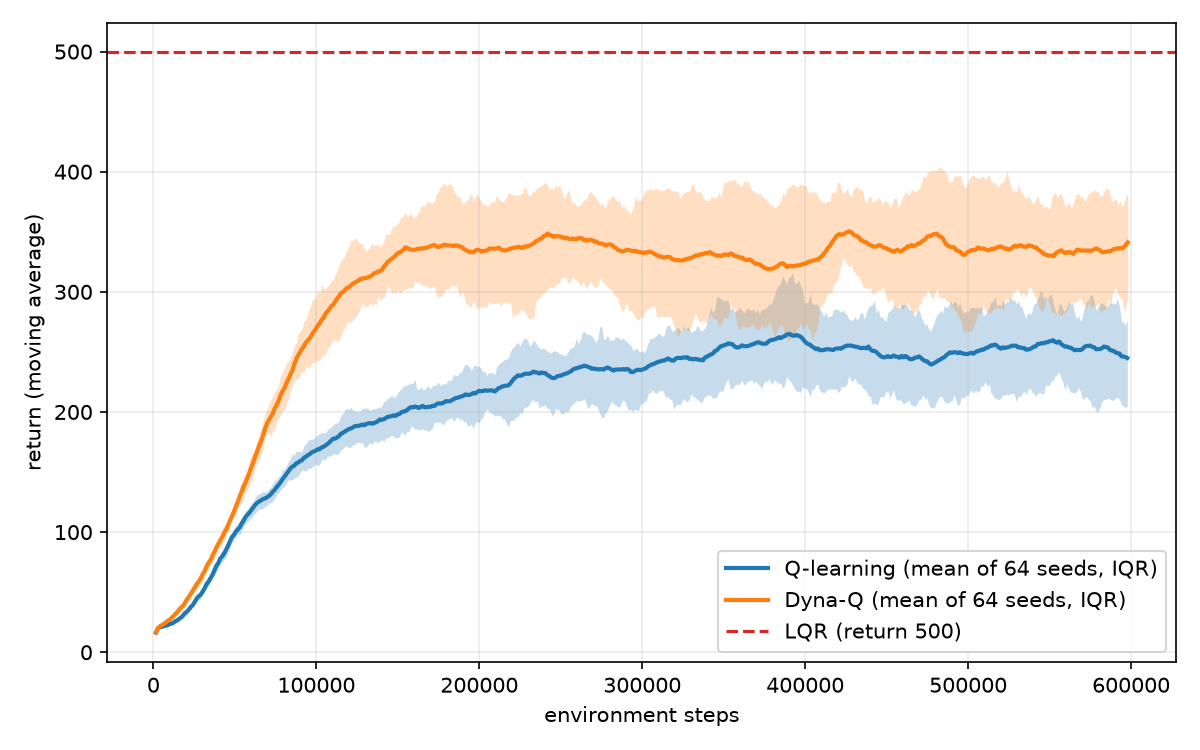
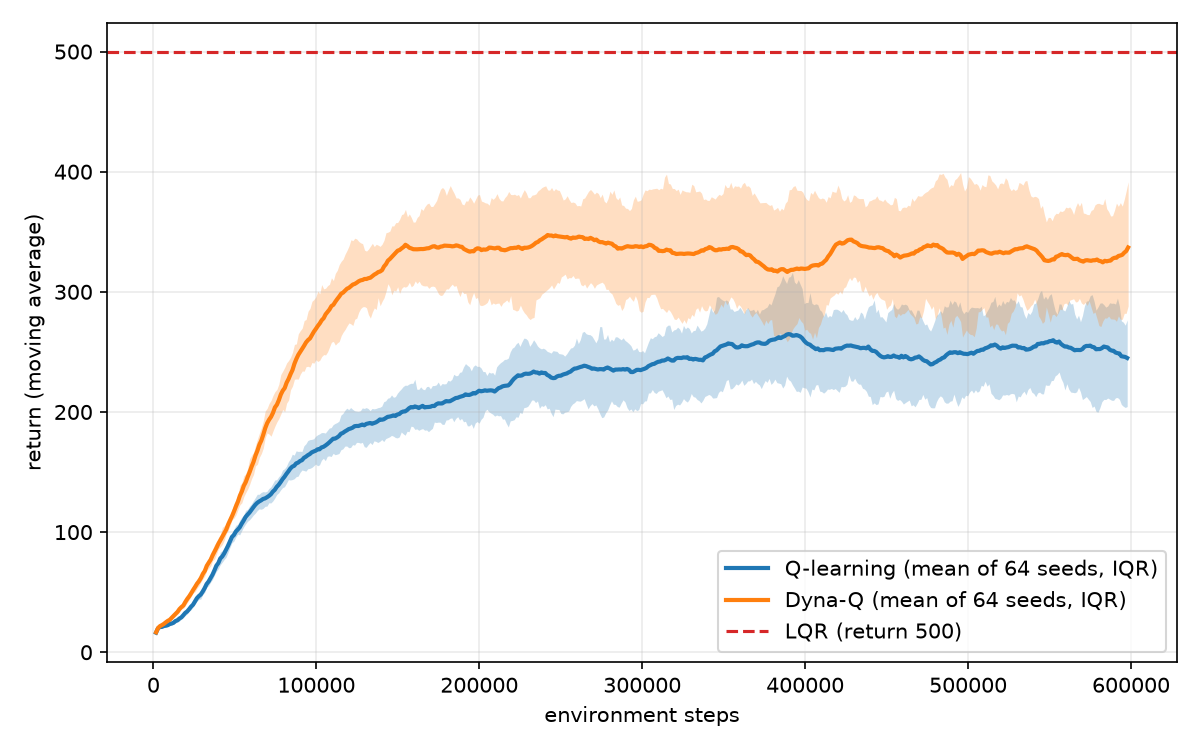
up

diff --git a/main.py b/main.py
@@ -27,8 +27,9 @@ class AlgorithmConfig(NamedTuple):
 
 class TrialResult(NamedTuple):
     q_table: jax.Array
-    steps: np.ndarray
-    returns: np.ndarray
+    steps: np.ndarray     # 各エピソード終了時点までに消費した環境ステップ数
+    returns: np.ndarray   # そのエピソードの収益
+    lengths: np.ndarray   # そのエピソードの長さ [step]
 
 class ExperimentResult(NamedTuple):
     trials: tuple[TrialResult, ...]
@@ -89,11 +90,11 @@ def lqr_gain(params):
 def train_trials(params, experiment, training):
     """全seedをvmapで同時に学習する. 各seedはnum_envs個の環境を並列に進める."""
     keys = jax.random.split(jax.random.PRNGKey(0), experiment.num_seeds)
-    q_tables, finished, returns = jax.jit(jax.vmap(
+    q_tables, finished, returns, lengths = jax.jit(jax.vmap(
         lambda key: agent.train_vec(
             params, experiment.task, experiment.agent_config, training,
             experiment.num_envs, key)))(keys)
-    finished, returns = np.array(finished), np.array(returns)
+    finished, returns, lengths = np.array(finished), np.array(returns), np.array(lengths)
 
     # イテレーションiの時点で消費した環境ステップ数は i * num_envs
     iterations = finished.shape[1]
@@ -103,17 +104,19 @@ def train_trials(params, experiment, training):
     trials = []
     for seed in range(experiment.num_seeds):
         mask = finished[seed].ravel()
-        steps, values = index.ravel()[mask], returns[seed].ravel()[mask]
+        steps = index.ravel()[mask]
         order = np.argsort(steps, kind="stable")  # 並列環境をまたいで時系列順に並べ直す
         trials.append(TrialResult(
-            q_table=q_tables[seed], steps=steps[order], returns=values[order]))
+            q_table=q_tables[seed], steps=steps[order],
+            returns=returns[seed].ravel()[mask][order],
+            lengths=lengths[seed].ravel()[mask][order]))
     return tuple(trials)
 
-def trial_curves(trials):
+def trial_curves(trials, field="returns"):
     """各trialの移動平均カーブ (steps, values) を返す. 短すぎるものは捨てる."""
     curves = []
     for trial in trials:
-        average = moving_average(trial.returns)
+        average = moving_average(getattr(trial, field))
         if len(average):
             curves.append((trial.steps[len(trial.steps) - len(average):], average))
     return curves
@@ -199,6 +202,74 @@ def plot_learning_comparison(experiment, results):
     save_figure(experiment.comparison_filename)
 
 
+def plot_design_ablation(params, experiment, baseline_trials):
+    """swing-up課題における報酬設計と探索の設計の効果を示す.
+
+    左: 素朴な報酬 (cos(theta), レール端で終端) では自滅方策が学習される.
+    右: 報酬を非負化してもQ値のゼロ初期化では学習が進まない."""
+    _, axes = plt.subplots(1, 3, figsize=(15, 4.3))
+    cap = experiment.training.max_episode_steps
+
+    # 素朴な報酬設計. レール端が終端条件となるためカート位置を状態に含める必要があり,
+    # またオプティミスティック初期化の導入前なので Q_0 = 0 とする.
+    naive_config = experiment.agent_config._replace(n_bins=(8, 1, 64, 32), q_init=0.0)
+    naive = experiment._replace(
+        task=env.SWINGUP_NAIVE_TASK, agent_config=naive_config)
+    naive_trials = train_trials(params, naive, naive.training)
+
+    grid, mean_curve, low, high, _, _ = aggregate_curves(
+        trial_curves(naive_trials, "lengths"))
+    axes[0].fill_between(grid, low, high, color="tab:red", alpha=0.25, lw=0)
+    axes[0].plot(grid, mean_curve, color="tab:red", lw=2,
+                 label=f"mean of {len(naive_trials)} seeds (IQR)")
+    axes[0].axhline(cap, color="gray", ls=":", lw=1.2, label=f"timeout ({cap} steps)")
+    axes[0].set_ylim(0, cap * 1.08)
+    axes[0].set_title(r"(a) naive reward $r=\cos\theta$: episode length")
+    axes[0].set_ylabel("episode length [steps]")
+    axes[0].annotate(f"{mean_curve[0]:.0f} -> {mean_curve[-1]:.0f} steps",
+                     xy=(grid[-1], mean_curve[-1]), xytext=(0.35, 0.45),
+                     textcoords="axes fraction", color="tab:red",
+                     arrowprops=dict(arrowstyle="->", color="tab:red"))
+
+    # 学習後の貪欲方策の軌道: カートがレール端へ直行して自滅する様子を示す
+    x0 = jnp.array(experiment.evaluation_state)
+    rollout = jax.jit(jax.vmap(lambda q: agent.rollout_greedy(
+        params, naive.task, naive_config, q, x0, cap)))
+    states, _, dones = rollout(jnp.stack([t.q_table for t in naive_trials]))
+    states, dones = np.array(states), np.array(dones)
+    for seed in range(len(naive_trials)):
+        end = np.argmax(dones[seed]) + 1 if dones[seed].any() else cap
+        t = np.arange(end) * params.dt
+        axes[1].plot(t, np.abs(states[seed, :end, 0]), color="tab:red", alpha=0.35, lw=1)
+    axes[1].axhline(params.x_limit, color="gray", ls="--", lw=1.2,
+                    label=f"rail limit ({params.x_limit} m)")
+    axes[1].set_title("(b) naive reward: greedy policy drives to the rail")
+    axes[1].set_ylabel("cart position |x| [m]")
+    axes[1].set_xlabel("time [s]")
+
+    # 報酬を非負化した上でのQ値初期化の比較
+    zero_init = experiment._replace(
+        agent_config=experiment.agent_config._replace(q_init=0.0))
+    zero_trials = train_trials(params, zero_init, zero_init.training)
+    for trials, color, label in [
+            (zero_trials, "tab:red", r"$Q_0 = 0$"),
+            (baseline_trials, "tab:blue", r"optimistic $Q_0 = 50$")]:
+        grid, mean_curve, low, high, _, _ = aggregate_curves(trial_curves(trials))
+        axes[2].fill_between(grid, low, high, color=color, alpha=0.25, lw=0)
+        axes[2].plot(grid, mean_curve, color=color, lw=2,
+                     label=f"{label}: {mean_curve[-1]:.0f}")
+    axes[2].set_ylim(0, cap * 1.08)
+    axes[2].set_title(r"(c) fixed reward $r=(1+\cos\theta)/2$: return")
+    axes[2].set_ylabel("return (moving average)")
+
+    for ax in (axes[0], axes[2]):
+        ax.set_xlabel("environment steps")
+    for ax in axes:
+        ax.legend(loc="best", fontsize=9)
+        ax.grid(alpha=0.25)
+    save_figure("swingup_ablation.png")
+    return naive_trials, zero_trials
+
 def plot_trajectories(params, experiment, results):
     plt.figure(figsize=(8, 4.5))
     drawn = []
@@ -254,3 +325,16 @@ if __name__ == "__main__":
 
     agent.region_of_attraction(
         params, EXPERIMENTS[0].task, lqr_gain(params))
+
+    # swing-up課題の報酬設計・探索設計に関する予備実験
+    swingup = EXPERIMENTS[1]
+    naive_trials, zero_trials = plot_design_ablation(
+        params, swingup, results["swingup"]["q-learning"].trials)
+    naive_len = [values[-1] for _, values in trial_curves(naive_trials, "lengths")]
+    naive_ret = [values[-1] for _, values in trial_curves(naive_trials)]
+    zero_ret = [values[-1] for _, values in trial_curves(zero_trials)]
+    print(f"[swingup/naive-reward] episode length (MA): "
+          f"{np.mean(naive_len):.1f} +/- {np.std(naive_len):.1f} steps, "
+          f"return {np.mean(naive_ret):.1f}")
+    print(f"[swingup/zero-init]     final return (MA): "
+          f"{np.mean(zero_ret):.1f} +/- {np.std(zero_ret):.1f}")

diff --git a/env.py b/env.py
@@ -18,11 +18,16 @@ class TaskConfig(NamedTuple):
     """初期状態・報酬・終端条件をまとめた課題設定 (jitの静的引数として渡す)."""
     initial_state: tuple = (0.0, 0.0, 0.0, 0.0)
     wrap_angle: bool = False
-    terminate_on_limits: bool = True
-    uprightness_reward: bool = False
+    terminate_on_limits: bool = True   # |x|>x_limit または |theta|>theta_limit で終端
+    terminate_on_rail: bool = False    # レール端 |x|>x_limit のみで終端
+    uprightness_reward: bool = False   # r = (1+cos(theta))/2  (非負)
+    cosine_reward: bool = False        # r = cos(theta)  (負値を含む. 報酬設計の失敗例)
 
 STABILIZATION_TASK = TaskConfig()
 SWINGUP_TASK = TaskConfig(initial_state=(0.0, 0.0, jnp.pi, 0.0), wrap_angle=True, terminate_on_limits=False, uprightness_reward=True)
+# 予備実験用: 報酬を負値を含む cos(theta) とし, レール端で終端する素朴な設計.
+# 毎ステップ負の報酬を受けるため, 早期に終端することが収益最大化になってしまう.
+SWINGUP_NAIVE_TASK = TaskConfig(initial_state=(0.0, 0.0, jnp.pi, 0.0), wrap_angle=True, terminate_on_limits=False, terminate_on_rail=True, cosine_reward=True)
 
 def dynamics(params: CartPoleParams, state: jnp.ndarray, force) -> jnp.ndarray:
     """運動方程式に基づき1ステップ後の状態を返す純粋関数
@@ -51,8 +56,19 @@ def transition(params: CartPoleParams, task: TaskConfig, state: jnp.ndarray, for
         next_state = next_state.at[2].set(
             jnp.mod(next_state[2] + jnp.pi, 2.0 * jnp.pi) - jnp.pi)
     x, theta = next_state[0], next_state[2]
-    done = ((jnp.abs(x) > params.x_limit) | (jnp.abs(theta) > params.theta_limit) if task.terminate_on_limits else jnp.bool_(False))
-    reward = (1.0 + jnp.cos(theta)) / 2.0 if task.uprightness_reward else 1.0
+    if task.terminate_on_limits:
+        done = (jnp.abs(x) > params.x_limit) | (jnp.abs(theta) > params.theta_limit)
+    elif task.terminate_on_rail:
+        done = jnp.abs(x) > params.x_limit
+    else:
+        done = jnp.bool_(False)
+
+    if task.cosine_reward:
+        reward = jnp.cos(theta)
+    elif task.uprightness_reward:
+        reward = (1.0 + jnp.cos(theta)) / 2.0
+    else:
+        reward = 1.0
     return next_state, reward, done
 
 def step(params: CartPoleParams, task: TaskConfig, state: jnp.ndarray, action) -> tuple:

diff --git a/agent.py b/agent.py
@@ -133,13 +133,13 @@ def train_vec(params: env.CartPoleParams, task: env.TaskConfig, config: AgentCon
         finished = dones | timeout
         fresh = jax.vmap(env.reset, in_axes=(None, 0))(task, jax.random.split(key_reset, num_envs))
         states = jnp.where(finished[:, None], fresh, next_states)
-        out = (finished, ep_return)
+        out = (finished, ep_return, ep_steps + 1)  # 終端した時点の ep_steps+1 がエピソード長
         ep_return = jnp.where(finished, 0.0, ep_return)
         ep_steps = jnp.where(finished, 0, ep_steps + 1)
         return (q_table, states, buffer, ep_return, ep_steps, key), out
 
-    carry, (finished, returns) = jax.lax.scan(scan_step, init_carry, jnp.arange(iterations))
-    return carry[0], finished, returns
+    carry, (finished, returns, lengths) = jax.lax.scan(scan_step, init_carry, jnp.arange(iterations))
+    return carry[0], finished, returns, lengths
 
 @partial(jax.jit, static_argnums=(0, 1, 2, 5))
 def rollout_greedy(params: env.CartPoleParams, task: env.TaskConfig, config: AgentConfig, q_table, x0, steps=500):
